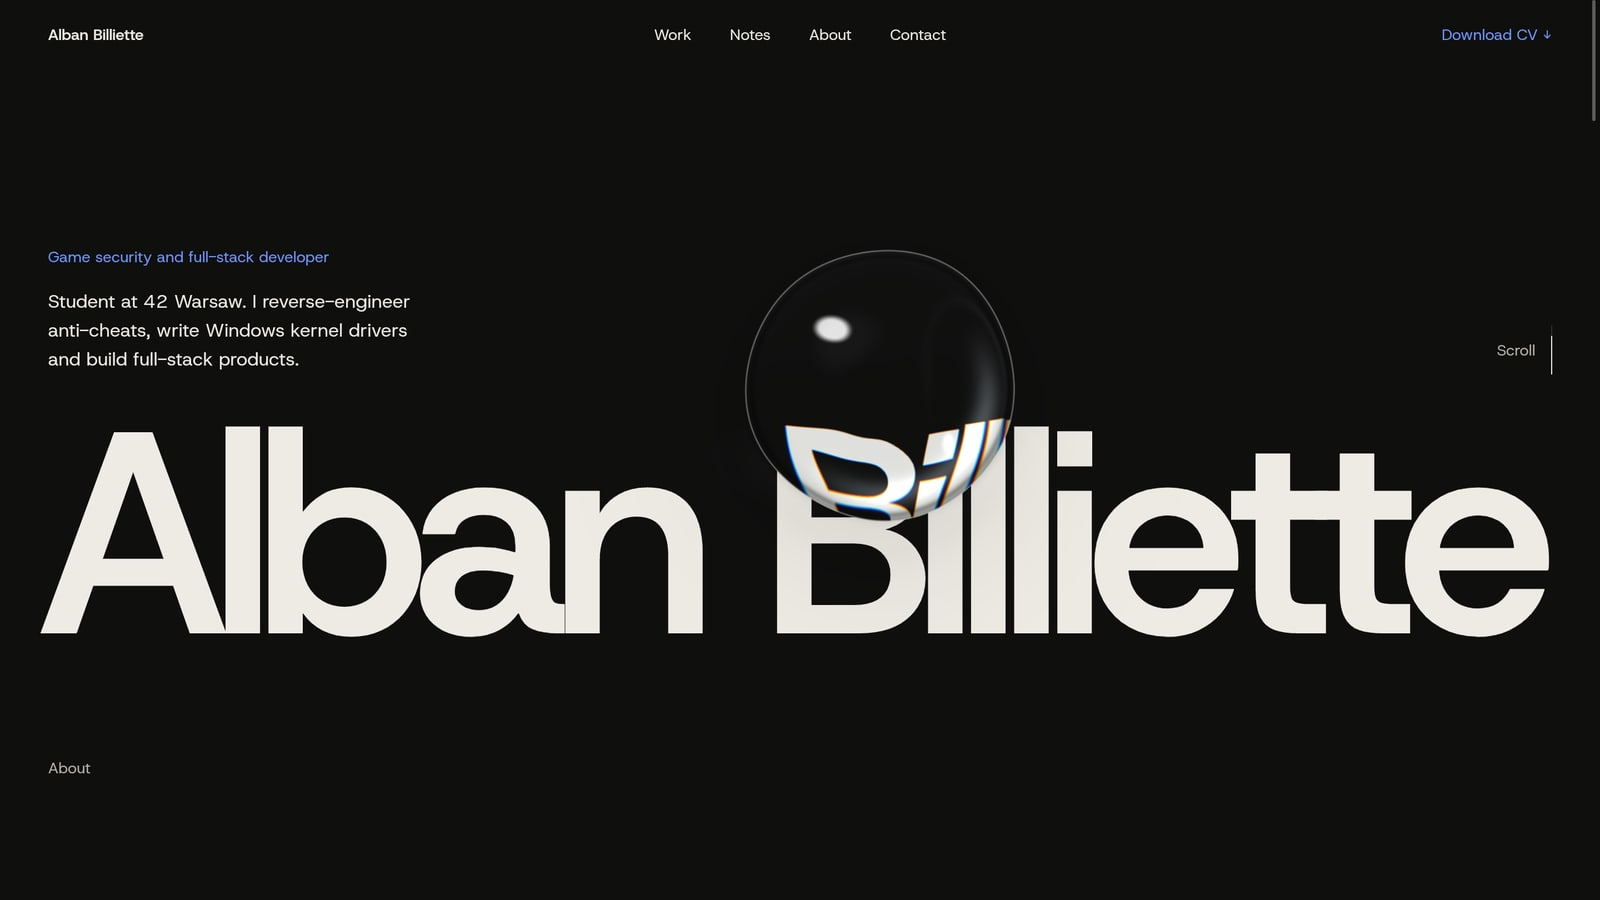
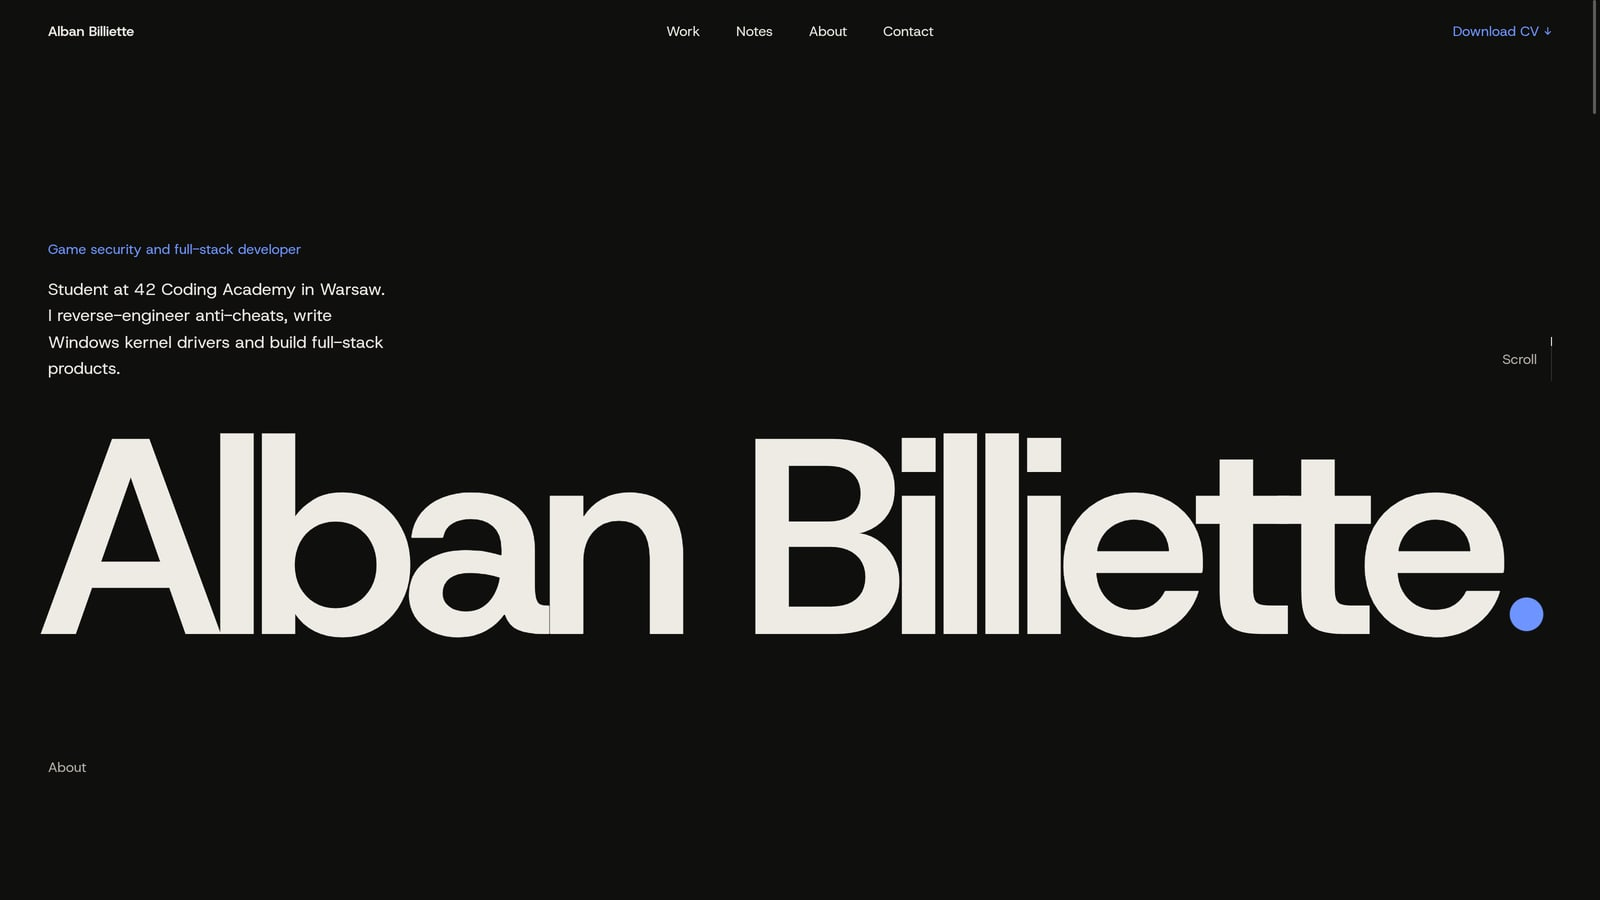
Prepare the repo for public release: MIT code license, content rights reserved, new README
The code is MIT; case studies, notes, screenshots, CV, home page copy and branding stay all rights reserved
(CONTENT-LICENSE.md). The README explains the lens, the generated home page, content and deploy, with a
fresh hero screenshot. package.json gets its description, homepage, repository and license.

diff --git a/README.md b/README.md
@@ -1,31 +1,80 @@
 # Alban Billiette · Portfolio
 
-Personal site at [kaveo.dev](https://kaveo.dev): game security and full-stack work, case studies and notes.
-Built with [Astro](https://astro.build), with a WebGL glass lens that refracts the page as you scroll.
+My personal site at **[kaveo.dev](https://kaveo.dev)**: game security and full-stack work, case studies and notes.
 
-![The portfolio hero: the name Alban Billiette in large type with a glass lens refracting the letters](.github/hero.jpg)
+![The kaveo.dev landing page: the name Alban Billiette in large type, with the glass lens as the full stop](.github/hero.jpg)
+
+A static [Astro](https://astro.build) site with no UI framework. Its centrepiece is a WebGL glass lens that
+follows you down the page and refracts whatever it passes over. On the landing page it doubles as the full
+stop after my name.
+
+## How the lens works
+
+The lens doesn't capture pixels from the page. It redraws the text under it onto a 2D canvas, using each
+element's computed styles and the browser's own word positions (Range rects), then a WebGL shader refracts
+that canvas through a glass shape that morphs from section to section. Only the area under the lens is drawn,
+so it stays cheap, and the page underneath remains real, selectable HTML.
+
+It lives in [`src/scripts/lens.js`](src/scripts/lens.js). Elements opt in with a `data-lens` attribute.
+
+## What's inside
+
+- **Home page** generated from a design export: [`design/Lens Portfolio.dc.html`](design/) holds the markup,
+  styles and lens code, and [`tools/sync-design.py`](tools/sync-design.py) turns it into the Astro page, its
+  CSS and scripts. Edit the design, not the generated files.
+- **Case studies** (`/work/<name>/`) and **notes** (`/notes/<name>/`) written in Markdown as Astro content
+  collections. Every field is described in [`src/content.config.ts`](src/content.config.ts).
+- **Images sized for each screen:** note screenshots are built as AVIF with a srcset, and case-study covers
+  get a 1100px version for phones.
+- **Phones and tablets** have their own layouts and larger touch targets. Page transitions and scrolling
+  respect `prefers-reduced-motion`.
+- **Plain scripts** for page transitions, the mobile header and the hidden scrollbar, loaded before first paint.
 
 ## Run it
 
+You need Node 22 (pinned in [`.node-version`](.node-version)) and Python 3 for the design sync.
+
 ```sh
 npm install
-npm run dev       # http://localhost:4321, drafts visible
-npm run build     # static site in dist/
+npm run dev          # http://localhost:4321, drafts visible
+npm run build        # static site in dist/
+npm run preview      # serve dist/
+npm run sync:design  # regenerate the home page after editing design/
 ```
 
-Astro is pinned to 7.4.1, which needs Node 22 (pinned in `.node-version`).
+There are no tests: `npm run build` is the check, and it fails on content that doesn't match the schema.
 
-## Content
+## Writing content
 
-- **Notes:** Markdown in `src/content/notes/`. The file name is the URL (`/notes/<name>/`).
-  Front matter: `title`, `date`, `tag`, optional `description` and `draft: true`.
-- **Case studies:** Markdown in `src/content/projects/` (`/work/<name>/`).
-  Every field is described in `src/content.config.ts`; the existing files are examples.
-  The Work cards on the home page are written in the design file, so a new case study needs its card there too.
-- **Home page:** generated from `design/Lens Portfolio.dc.html`. Edit the design file, then run
-  `npm run sync:design`. Don't edit `src/pages/index.astro` or `src/scripts/lens.js` by hand.
+- **A note:** add `src/content/notes/<name>.md` with `title`, `date` and `tag` in the front matter
+  (`description` and `draft: true` are optional). Put its images in `src/content/notes/images/`.
+  The three latest notes appear on the home page automatically.
+- **A case study:** add `src/content/projects/<name>.md` and its cover in `public/images/`. A cover
+  `images/x.webp` gets a phone-sized `images/x-1100.webp` (and `.avif`) when that file exists.
+  The Work cards on the home page are written in the design file, so add the new card there too.
+
+Drafts (`draft: true`) show in `npm run dev` and are left out of the build.
+
+## Layout
+
+```
+design/        design export the home page is generated from
+tools/         sync-design.py
+src/content/   notes and case studies (Markdown)
+src/pages/     home (generated), work/, notes/, 404, and an unlinked phone preview
+src/scripts/   lens and page scripts
+public/        images, CV, and Cloudflare Pages _headers and _redirects
+```
 
 ## Deploy
 
-Cloudflare Pages deploys every push to `main` (preset Astro, build `npm run build`, output `dist`).
-`public/_headers` sets caching and `public/_redirects` maps the old blog URLs to the new notes.
+Cloudflare Pages builds every push to `main` (Astro preset, `npm run build`, output `dist`).
+[`public/_headers`](public/_headers) sets caching and [`public/_redirects`](public/_redirects) sends the old
+blog URLs to their notes.
+
+## License
+
+The code is under the [MIT license](LICENSE). The content (case studies, notes, screenshots, CV, the copy
+on the home page, and my name and logo as branding) is all rights reserved; see
+[CONTENT-LICENSE.md](CONTENT-LICENSE.md). If you build your own site from this code, please replace the
+content with yours.

diff --git a/CONTENT-LICENSE.md b/CONTENT-LICENSE.md
@@ -1,0 +1,17 @@
+# Content license
+
+The MIT license in [LICENSE](LICENSE) covers the code only: the Astro pages, layouts, styles, scripts
+(including the lens), the build tools and the design export's markup and scripts.
+
+Everything that is my own content is **not** covered and stays all rights reserved:
+
+- the case studies and notes in `src/content/` and their images,
+- the screenshots and covers in `public/images/` and `.github/`,
+- the CV (`public/Alban-Billiette-CV.pdf`),
+- the biography and other copy written in `design/Lens Portfolio.dc.html`,
+- my name and the bubble logo as branding.
+
+You're welcome to read it, link to it and learn from it. If you build your own site from this code, replace the
+content with yours. To ask about reusing any of it, write to contact@kaveo.dev.
+
+Copyright (c) 2026 Alban Billiette.
